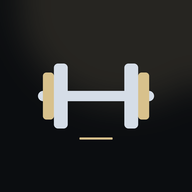
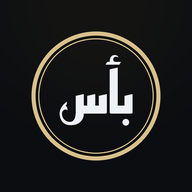
الاسم «بأس» + أيقونة جديدة (v69)
Claude-Session: https://claude.ai/code/session_01WkkKEZYvaXpMPRjZNHy4t8

Changed region(s): [[0.1562, 0.1562, 0.8438, 0.8438], [0.4062, 0.6875, 0.5938, 0.75]]

diff --git a/index.html b/index.html
@@ -8,7 +8,7 @@
 <link rel="manifest" href="manifest.webmanifest">
 <link rel="icon" href="icon-192.png">
 <link rel="apple-touch-icon" href="icon-192.png">
-<title>Gym Log</title>
+<title>بأس</title>
 <style>
 :root{--scb:#000;--sci:#0c0c0c;--font:system-ui,"Noto Naskh Arabic","Segoe UI",Tahoma,sans-serif;--fnum:inherit;--rad:14px;--radb:11px;--radp:99px;--bw:1px;--sh:none;--ttl:none;--ls:0;--bg:#0e0e0f;--s1:#17171a;--s2:#202024;--bd:#2d2d33;--tx:#ece8e1;--mu:#968f85;--ac:#c38d4f;--ac2:#e2b37c;--ok:#7bb072;--mid:#d6b05a;--bad:#d06c57;--onac:#160e05;--hero:#1d1810;--tx2:#cfc6b8;--ph:#55504a;--okbd:#3b5a37;--okbg:#1c2a1a;--midbd:#5c4d2a;--midbg:#2b2616;--badbg:#2a1a15;--acbd:#4a3a28;--acbg:#33261a;--oktx:#a6d69c;--midtx:#e5c97f;--badtx:#f0b3a3}
 *{box-sizing:border-box;-webkit-tap-highlight-color:transparent}
@@ -422,6 +422,8 @@ html[data-th=granite] #sess .ex.wn{background:linear-gradient(180deg,#221e14,#1a
 #sess .meta2 .inp{min-height:44px}
 #sess .exname{min-height:44px;display:flex;align-items:center}
 #sess .scell .inp::placeholder{color:var(--mu);opacity:.55;font-weight:500;font-size:17px}
+/* v69: الاسم بأس */
+.brand .bas{font-size:21px;font-weight:800;letter-spacing:0;line-height:1;color:var(--ac2);text-transform:none}
 a.brand,a.brand:visited{color:inherit;text-decoration:none;-webkit-tap-highlight-color:transparent}
 
 /* ===== v57: بساطة — دايرة واحدة وتمرين واحد في الشاشة ===== */
@@ -610,11 +612,11 @@ html[data-th=granite] .pst.full{color:var(--gd)}
 
 <script>
 'use strict';
-const VER='68';
+const VER='69';
 const KEY='gymlog.v1';
 /* ================= اللغة / Language ================= */
 const I18N={
-en:{brand:'<svg class="lg" viewBox="0 0 34 22" fill="none" stroke="currentColor" stroke-width="2" stroke-linecap="round" aria-hidden="true"><path d="M11 11h12"/><rect x="5" y="5" width="4" height="12" rx="1.2" fill="currentColor"/><rect x="25" y="5" width="4" height="12" rx="1.2" fill="currentColor"/><path d="M2 8.5v5M32 8.5v5"/></svg><span class="wm"><i>GYM</i><b>LOG</b></span>',title:'Gym Log',langBtn:'عربي',tabs:['Home','Log','Program','Exercises','File'],update:'Update available — tap',
+en:{brand:'<span class="bas">بأس</span>',title:'بأس',langBtn:'عربي',tabs:['Home','Log','Program','Exercises','File'],update:'Update available — tap',
  next:'Next session',coreL:'Core',start:'Start',draftOpen:'Unsaved session in progress',draftEdit:'Editing a session',resume:'Continue',
  last7:'Last 7 days',sessions:'sessions',lastSess:'Last session',min3:'Weekly minimum is 3 sessions.',
  bkNone:'No backup yet.',bkAgo:n=>`Last backup was ${n} day(s) ago.`,bkWarn:' If Chrome data is cleared, the log goes with it.',bkNowBtn:'Save a backup file now',
@@ -651,7 +653,7 @@ en:{brand:'<svg class="lg" viewBox="0 0 34 22" fill="none" stroke="currentColor"
  aiTarget:'Target',aiWeight:'Weight',aiSets:'Sets',aiForm:'Form',aiClean:'clean (no momentum, full control)',aiNotClean:'not marked clean',
  aiLast:'Previous',aiStatus:'Status',aiNote:'Note',aiNotDone:'Not done',aiCoreTag:'[core]',bw:'bodyweight',
  st2:{q1:'qualified 1 of 2',up:'increase earned',stuck:n=>`${n} sessions at this weight without an increase`},
- mdTitle:'Gym Log — Backup',mdExported:'Exported',mdSessions:'Sessions',mdProgram:'Program',mdLog:'Log (newest first)',
+ mdTitle:'بأس — Backup',mdExported:'Exported',mdSessions:'Sessions',mdProgram:'Program',mdLog:'Log (newest first)',
  mdCols:['#','Exercise','Weight','Target','Core','Notes'],mdSCols:['Exercise','Weight','Sets','Clean','Note'],mdData:'Data used by “Restore” in the app — do not edit',yes:'✓',
  csvH:['Date','Cycle','Day','Exercise','Weight','Sets','Set count','Total reps','Clean','Core','Note'],coreLine:'Core',themeT:'Theme',histNote:n=>`${n} past session(s) from your earlier log were added.`,todayL:'Today',otherDay:'Start a different day',newInstead:'Start a new session instead',weekOf:n=>`${n} session(s) in the last 7 days · goal 3`,
  syncT:'Encrypted auto-backup (GitHub)',syncHint:'After every session the whole log is encrypted on this phone and uploaded to your repo. Without the passphrase the file is unreadable.',
@@ -666,7 +668,7 @@ en:{brand:'<svg class="lg" viewBox="0 0 34 22" fill="none" stroke="currentColor"
  syncPub:'Your encrypted backups are going to a PUBLIC repo. Create a private repo, then tap Turn off and enable the backup again with the new repo name.',undoRestore:'Undo last restore',confUndoRestore:'Go back to the data you had before the last restore?',undoDone:'Back to your data before the restore ✓',
  restoredSkip:n=>`Restored ✓ (${n} damaged session(s) skipped)`,syncAfterRestore:'Turn on encrypted auto-backup on this phone with the same repo and passphrase?'
 },
-ar:{brand:'<svg class="lg" viewBox="0 0 34 22" fill="none" stroke="currentColor" stroke-width="2" stroke-linecap="round" aria-hidden="true"><path d="M11 11h12"/><rect x="5" y="5" width="4" height="12" rx="1.2" fill="currentColor"/><rect x="25" y="5" width="4" height="12" rx="1.2" fill="currentColor"/><path d="M2 8.5v5M32 8.5v5"/></svg><span class="wm"><i>GYM</i><b>LOG</b></span>',title:'Gym Log',langBtn:'EN',tabs:['الرئيسية','السجل','البرنامج','التمارين','الملف'],update:'فيه تحديث — اضغط',
+ar:{brand:'<span class="bas">بأس</span>',title:'بأس',langBtn:'EN',tabs:['الرئيسية','السجل','البرنامج','التمارين','الملف'],update:'فيه تحديث — اضغط',
  next:'الجلسة الجاية',coreL:'الأساسي',start:'ابدأ',draftOpen:'جلسة مفتوحة لسه ماتحفظتش',draftEdit:'تعديل جلسة',resume:'كمّل',
  last7:'آخر ٧ أيام',sessions:'جلسات',lastSess:'آخر جلسة',min3:'الحد الأدنى في الأسبوع ٣ جلسات.',
  bkNone:'لسه ماعملتش ولا نسخة احتياطية.',bkAgo:n=>`آخر نسخة احتياطية من ${n} يوم.`,bkWarn:' لو بيانات Chrome اتمسحت، السجل هيضيع معاها.',bkNowBtn:'احفظ نسخة في ملف دلوقتي',
@@ -703,7 +705,7 @@ ar:{brand:'<svg class="lg" viewBox="0 0 34 22" fill="none" stroke="currentColor"
  aiTarget:'الهدف',aiWeight:'الوزن',aiSets:'المجموعات',aiForm:'الأداء',aiClean:'نضيف (من غير مرجحة وبتحكّم كامل)',aiNotClean:'مش متعلّم نضيف',
  aiLast:'المرة اللي فاتت',aiStatus:'الحالة',aiNote:'ملاحظة',aiNotDone:'ماتلعبش',aiCoreTag:'[أساسي]',bw:'وزن الجسم',
  st2:{q1:'مؤهل ١ من ٢',up:'استحق زيادة',stuck:n=>`${n} جلسات على نفس الوزن من غير زيادة`},
- mdTitle:'Gym Log — نسخة احتياطية',mdExported:'اتعملت',mdSessions:'الجلسات',mdProgram:'البرنامج',mdLog:'السجل (الأحدث الأول)',
+ mdTitle:'بأس — نسخة احتياطية',mdExported:'اتعملت',mdSessions:'الجلسات',mdProgram:'البرنامج',mdLog:'السجل (الأحدث الأول)',
  mdCols:['#','التمرين','الوزن','الهدف','أساسي','تعليمات'],mdSCols:['التمرين','الوزن','المجموعات','نضيف','ملاحظة'],mdData:'بيانات بيستخدمها زرار «استرجاع» في التطبيق — ماتعدّلهاش',yes:'✓',
  csvH:['التاريخ','Cycle','اليوم','التمرين','الوزن','المجموعات','عدد المجموعات','إجمالي العدّات','نضيف','أساسي','ملاحظة'],coreLine:'الأساسي',themeT:'الشكل',histNote:n=>`اتضاف ${n} جلسة من سجلك القديم.`,todayL:'النهارده',otherDay:'ابدأ يوم تاني',newInstead:'ابدأ جلسة جديدة بدلها',weekOf:n=>`${n} جلسة في آخر ٧ أيام · الهدف ٣`,
  syncT:'نسخة أوتوماتيك مشفّرة (GitHub)',syncHint:'بعد كل جلسة السجل كله بيتشفّر على الموبايل وبيترفع للريبو بتاعك. من غير العبارة السرية الملف مش بيتفتح.',
